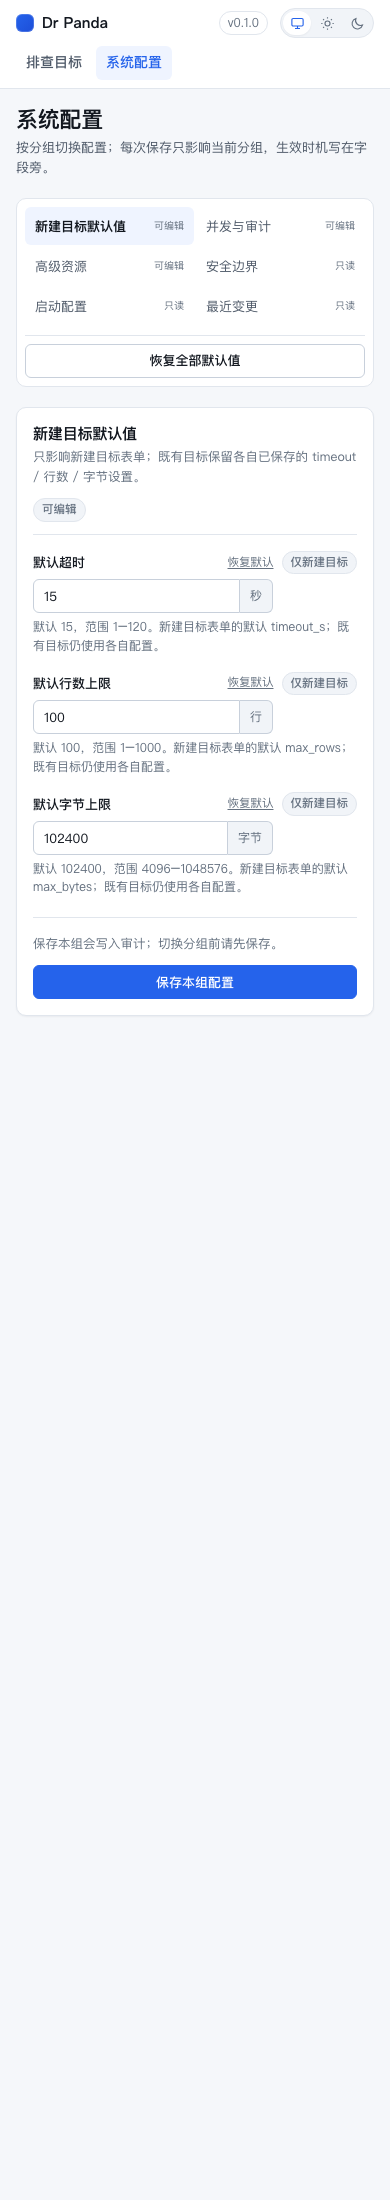
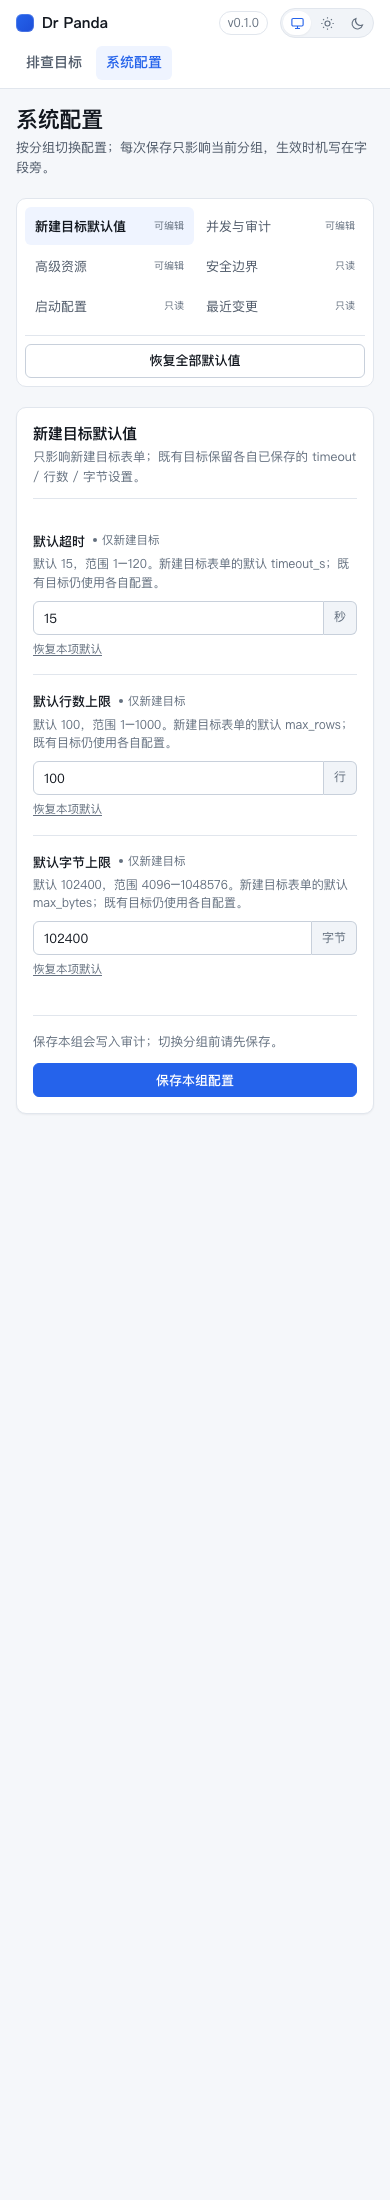
Update settings management to enhance UI and introduce subgroup organization
- Updated planning.md to reflect version change to v0.25, detailing improvements in settings management.
- Revised settings.html and associated CSS to implement a single-column layout for settings fields and introduce subgroup titles for better organization.
- Enhanced backend logic to support subgrouping of settings, allowing for clearer categorization of related fields.
- Updated tests to validate the new subgroup functionality and ensure proper rendering of settings in the UI.
- Increased pytest coverage to reflect the changes in settings structure and layout.

Changed region(s): [[0.0615, 0.2164, 0.9231, 0.5255]]

diff --git a/src/dr_panda_mcp/web/templates/settings.html b/src/dr_panda_mcp/web/templates/settings.html
@@ -54,36 +54,40 @@
           <h2 class="settings-panel-title">{{ active_group.title }}</h2>
           <p class="settings-panel-desc">{{ active_group.description }}</p>
         </div>
-        <span class="badge badge--muted">可编辑</span>
       </div>
 
-      <div class="settings-grid">
-        {% for row in active_group.rows %}
-        <div class="settings-field">
-          <div class="settings-field__head">
-            <label class="field__label" for="setting-{{ row.key }}">{{ row.label }}</label>
-            <span class="settings-field__tools">
-              <a class="settings-field__reset" href="/settings/reset?key={{ row.key }}&section={{ active_section }}">恢复默认</a>
-              <span class="badge badge--quiet">{{ row.effect }}</span>
-            </span>
+      {% for subgroup in active_group.subgroups %}
+      {% if subgroup.title %}<h3 class="settings-subtitle">{{ subgroup.title }}</h3>{% endif %}
+      <div class="settings-rows">
+        {% for row in subgroup.rows %}
+        <div class="settings-field-row">
+          <div class="settings-field-copy">
+            <div class="settings-field-title">
+              <label class="field__label" for="setting-{{ row.key }}">{{ row.label }}</label>
+              <span class="settings-effect">{{ row.effect }}</span>
+            </div>
+            <p class="field__hint" id="hint-setting-{{ row.key }}">
+              默认 {{ row.default }}，范围 {{ row.low }}–{{ row.high }}。{{ row.help }}
+            </p>
+            {% if row.error %}
+            <p class="field__error" id="err-setting-{{ row.key }}" role="alert">{{ row.error }}</p>
+            {% endif %}
           </div>
-          <div class="input-group input-group--narrow">
-            <input class="input" type="number" inputmode="numeric"
-                   id="setting-{{ row.key }}" name="{{ row.key }}"
-                   value="{{ row.value }}"
-                   aria-describedby="hint-setting-{{ row.key }}{% if row.error %} err-setting-{{ row.key }}{% endif %}"
-                   {% if row.error %}aria-invalid="true"{% endif %}>
-            <span class="input-group__suffix">{{ row.unit }}</span>
+          <div class="settings-field-control">
+            <div class="input-group input-group--narrow">
+              <input class="input" type="number" inputmode="numeric"
+                     id="setting-{{ row.key }}" name="{{ row.key }}"
+                     value="{{ row.value }}"
+                     aria-describedby="hint-setting-{{ row.key }}{% if row.error %} err-setting-{{ row.key }}{% endif %}"
+                     {% if row.error %}aria-invalid="true"{% endif %}>
+              <span class="input-group__suffix">{{ row.unit }}</span>
+            </div>
+            <a class="settings-field__reset" href="/settings/reset?key={{ row.key }}&section={{ active_section }}">恢复本项默认</a>
           </div>
-          <p class="field__hint" id="hint-setting-{{ row.key }}">
-            默认 {{ row.default }}，范围 {{ row.low }}–{{ row.high }}。{{ row.help }}
-          </p>
-          {% if row.error %}
-          <p class="field__error" id="err-setting-{{ row.key }}" role="alert">{{ row.error }}</p>
-          {% endif %}
         </div>
         {% endfor %}
       </div>
+      {% endfor %}
 
       <div class="settings-actions">
         <span class="settings-actions__hint">保存本组会写入审计；切换分组前请先保存。</span>

diff --git a/src/dr_panda_mcp/web/static/app.css b/src/dr_panda_mcp/web/static/app.css
@@ -1973,3 +1973,107 @@ ul {
     padding: var(--space-4);
   }
 }
+
+/* Settings field rows */
+.settings-subtitle {
+  margin: var(--space-5) 0 var(--space-1);
+  color: var(--text-secondary);
+  font-size: 12px;
+  font-weight: 600;
+  letter-spacing: .02em;
+}
+
+.settings-subtitle:first-of-type {
+  margin-top: 0;
+}
+
+.settings-rows {
+  display: grid;
+  gap: 0;
+}
+
+.settings-field-row {
+  display: grid;
+  grid-template-columns: minmax(0, 1fr) 320px;
+  gap: var(--space-5);
+  align-items: start;
+  padding: var(--space-4) 0;
+  border-top: 1px solid var(--border);
+}
+
+.settings-field-row:first-child {
+  border-top: 0;
+}
+
+.settings-field-title {
+  display: flex;
+  align-items: center;
+  flex-wrap: wrap;
+  gap: 8px;
+  margin-bottom: 4px;
+}
+
+.settings-field-title .field__label {
+  margin: 0;
+}
+
+.settings-effect {
+  color: var(--text-muted);
+  font-size: 11.5px;
+}
+
+.settings-effect::before {
+  content: "";
+  display: inline-block;
+  width: 4px;
+  height: 4px;
+  margin-right: 5px;
+  border-radius: 999px;
+  background: currentColor;
+  vertical-align: 2px;
+}
+
+.settings-field-copy .field__hint {
+  margin: 0;
+  max-width: 54ch;
+}
+
+.settings-field-control {
+  display: grid;
+  justify-items: end;
+  gap: 6px;
+}
+
+.settings-field-control .input-group {
+  width: 100%;
+  max-width: 320px;
+  margin: 0;
+}
+
+.settings-field-control .settings-field__reset {
+  margin: 0;
+  text-align: right;
+}
+
+.settings-field-row .field__error {
+  margin-top: 6px;
+}
+
+@media (max-width: 900px) {
+  .settings-field-row {
+    grid-template-columns: minmax(0, 1fr);
+    gap: var(--space-2);
+  }
+
+  .settings-field-control {
+    justify-items: stretch;
+  }
+
+  .settings-field-control .input-group {
+    max-width: none;
+  }
+
+  .settings-field-control .settings-field__reset {
+    text-align: left;
+  }
+}

diff --git a/src/dr_panda_mcp/settings.py b/src/dr_panda_mcp/settings.py
@@ -26,6 +26,7 @@ class SettingSpec:
     high: int
     effect: str
     help: str
+    subgroup: str = ""
 
 
 SETTING_SPECS: tuple[SettingSpec, ...] = (
@@ -72,6 +73,7 @@ SETTING_SPECS: tuple[SettingSpec, ...] = (
         50,
         "立即生效",
         "同一个目标同时进行的工具调用上限，超出会排队。",
+        "并发控制",
     ),
     SettingSpec(
         "audit_retention_days",
@@ -83,6 +85,7 @@ SETTING_SPECS: tuple[SettingSpec, ...] = (
         3650,
         "下一轮清理",
         "超过该天数的审计记录会被定时清理；清理只记日志。",
+        "审计维护",
     ),
     SettingSpec(
         "catalog_max_clients",
@@ -105,6 +108,7 @@ SETTING_SPECS: tuple[SettingSpec, ...] = (
         1440,
         "下一轮清理",
         "每轮清理后按该间隔休眠；修改后下一轮开始使用新值。",
+        "审计维护",
     ),
 )
 

diff --git a/src/dr_panda_mcp/web/routes.py b/src/dr_panda_mcp/web/routes.py
@@ -485,10 +485,17 @@ def _settings_page(
                     "unit": spec.unit,
                     "effect": spec.effect,
                     "help": spec.help,
+                    "subgroup": spec.subgroup,
                     "error": errors.get(spec.key),
                 }
             )
-        groups.append({**group, "rows": rows})
+        subgroups: list[dict[str, object]] = []
+        for row in rows:
+            title = str(row["subgroup"] or "")
+            if not subgroups or subgroups[-1]["title"] != title:
+                subgroups.append({"title": title, "rows": []})
+            subgroups[-1]["rows"].append(row)  # type: ignore[union-attr]
+        groups.append({**group, "rows": rows, "subgroups": subgroups})
     sections: list[dict[str, str]] = [
         {
             "key": str(group["key"]),

diff --git a/tests/test_web.py b/tests/test_web.py
@@ -832,3 +832,15 @@ async def test_settings_section_switching_and_save(runtime: Runtime) -> None:
     assert 'value="64"' in advanced_after.text
     assert invalid.status_code == 200
     assert "默认超时" in invalid.text
+
+
+async def test_settings_runtime_uses_field_rows_and_subgroups(runtime: Runtime) -> None:
+    async with _client(runtime) as client:
+        page = await client.get("/settings?section=runtime")
+
+    assert "并发控制" in page.text
+    assert "审计维护" in page.text
+    assert "settings-field-row" in page.text
+    assert "恢复本项默认" in page.text
+    assert "settings-field__reset" in page.text
+    assert "立即生效" in page.text

diff --git a/docs/ui-design.md b/docs/ui-design.md
@@ -120,7 +120,7 @@ POST /theme mode=system   → 清除 Cookie，回到跟随系统
 
 ### 5.4 系统配置 `/settings`
 
-左侧子菜单按分组切换：`新建目标默认值`、`并发与审计`、`高级资源`、`安全边界`、`启动配置`、`最近变更`；内容区只渲染当前分组。每项显示名称、数字输入+单位、默认值、允许范围、生效标签；只读分组展示安全约束和启动配置（host/port/DB 类型/日志级别/密钥来源，不显示密钥）。字段级错误、`aria-invalid`/`aria-describedby`、顶部错误摘要锚点；保存后 `?flash=saved` 提示；右侧另有“最近变更”和“恢复默认值”确认页。
+左侧子菜单按分组切换：`新建目标默认值`、`并发与审计`、`高级资源`、`安全边界`、`启动配置`、`最近变更`；内容区只渲染当前分组；字段采用单列行式布局，状态说明紧跟字段名，恢复默认放在字段底部，输入框限宽。每项显示名称、数字输入+单位、默认值、允许范围、生效说明；只读分组展示安全约束和启动配置（host/port/DB 类型/日志级别/密钥来源，不显示密钥）。字段级错误、`aria-invalid`/`aria-describedby`、顶部错误摘要锚点；保存后 `?flash=saved` 提示；右侧另有“最近变更”和“恢复默认值”确认页。
 
 ### 5.5 删除确认
 

diff --git a/docs/verify/settings-01.md b/docs/verify/settings-01.md
@@ -17,7 +17,7 @@
 页面：
 
 - 左侧子菜单切换分组：可编辑的“新建目标默认值”“并发与审计”“高级资源”，以及只读的“安全边界”“启动配置”“最近变更”；
-- 每次只渲染当前分组；保存按钮只提交当前分组，URL 使用 `?section=<key>`；
+- 每次只渲染当前分组；字段采用单列行式布局，状态在字段名旁，恢复默认在字段底部；并发与审计组内再分“并发控制 / 审计维护”；保存只提交当前分组，URL 使用 `?section=<key>`；
 - 启动配置展示 host/port/DB 类型/日志级别/密钥来源，不显示密钥；
 - 每项显示默认值、范围、生效标签；
 - 字段级错误、顶部错误摘要锚点、`aria-invalid`/`aria-describedby`；
@@ -30,7 +30,7 @@
 
 ## 验证
 
-- `pytest`：**415 passed**（新增配置、分组、新目标默认值、字段错误、单项/全局 reset、history、catalog 缓存上限、子菜单切换用例）
+- `pytest`：**416 passed**（新增配置、分组、新目标默认值、字段错误、单项/全局 reset、history、catalog 缓存上限、子菜单切换用例）
 - `ruff check .`：通过
 - 未启动真实浏览器截图；分组与可访问性由模板/测试断言覆盖
 

diff --git a/docs/verify/settings-02.md b/docs/verify/settings-02.md
@@ -8,7 +8,8 @@
 
 ## 截图
 
-- [1440px](assets/ui/settings-1440.png)
+- [1440px · 新建目标默认值](assets/ui/settings-1440.png)
+- [1440px · 并发与审计](assets/ui/settings-runtime-1440.png)
 - [390px](assets/ui/settings-390.png)
 
 ## 布局检查
@@ -18,7 +19,9 @@
 | 1440 | 1440 | 1440 | 无横向滚动 |
 | 390 | 390 | 390 | 无横向滚动 |
 
-390px 下左侧子菜单变为两列换行，内容区单列；保存/恢复按钮拉通。每次只渲染当前分组。
+390px 下左侧子菜单两列换行，内容区单列；保存/恢复按钮拉通。每次只渲染当前分组。
+
+并发与审计分组内已拆分“并发控制 / 审计维护”小节；字段使用单列行式布局，状态在字段名旁，恢复默认在字段底部右侧。
 
 ## 键盘走查
 
@@ -31,7 +34,7 @@
 5. 主题三态按钮（跟随系统 / 浅色 / 深色）
 6. 左侧子菜单 6 项（新建目标默认值 / 并发与审计 / 高级资源 / 安全边界 / 启动配置 / 最近变更）
 7. 恢复全部默认值
-8. 当前分组字段的“恢复默认”链接 + 数字输入（默认页为 3 项）
+8. 当前分组字段的数字输入 + “恢复本项默认”（默认页为 3 项）
 9. 保存本组配置
 10. 回到页首跳过链接
 

diff --git a/docs/planning.md b/docs/planning.md
@@ -8,7 +8,7 @@
 
 | 项 | 值 |
 |---|---|
-| 版本 | v0.24 |
+| 版本 | v0.25 |
 | 更新 | 2026-11-02 |
 | 状态 | M0–M6 已实现；M7 登录待定 |
 | 范围 | 目标、决策、形态、网页、配置库、系统配置、密钥加密、绝对只读、危险与高开销操作、类型字段、工具、运行、结构、依赖、测试、分期、未决 |
@@ -42,6 +42,7 @@
 | v0.22 | 2026-11-02 | `/settings` 改为左侧子菜单分组切换，保存只提交当前分组并保留 section |
 | v0.23 | 2026-11-02 | SQLite 启动/正常关闭 checkpoint，WAL 下外部查看器可见性收口 |
 | v0.24 | 2026-11-02 | settings 自描述元数据 + 7 行完整 seed + settings_history 结构化历史 |
+| v0.25 | 2026-11-02 | 设置页单列字段行、状态/操作分层、并发与审计子分组 |
 
 ## 1. 目标
 

diff --git a/docs/verify/sqlite-wal-01.md b/docs/verify/sqlite-wal-01.md
@@ -23,7 +23,7 @@ SQLite 配置库使用 WAL 模式。主文件在未 checkpoint 时可能只有 4
 - 新增 `tests/test_sqlite_wal.py`：
   - 启动后只复制主文件（不带 WAL）也能看到 `targets/audit/settings/alembic_version`；
   - 写入审计后正常关闭，只复制主文件也能读到该审计。
-- 全量 `pytest`：**415 passed**；`ruff` 通过。
+- 全量 `pytest`：**416 passed**；`ruff` 通过。
 
 ## 外部查看器使用说明
 

diff --git a/docs/verify/settings-03.md b/docs/verify/settings-03.md
@@ -37,7 +37,7 @@
   - 元数据 seed 完整；
   - 更新后历史保留 old/new；
   - 原有值迁移后不被默认值覆盖。
-- 全量 `pytest`：**415 passed**；`ruff` 通过。
+- 全量 `pytest`：**416 passed**；`ruff` 通过。
 
 ## 后续
 
